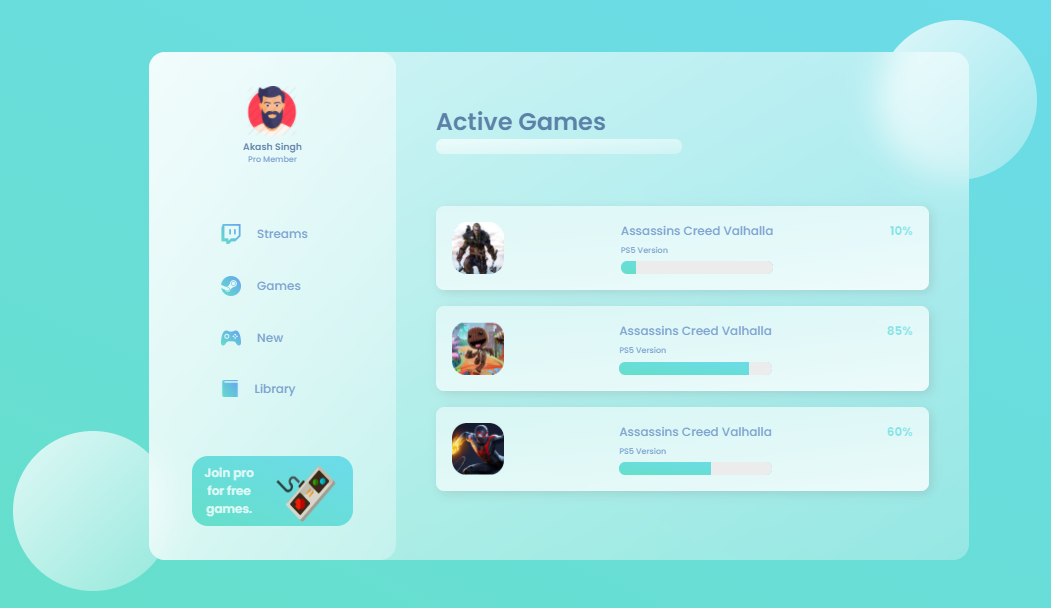
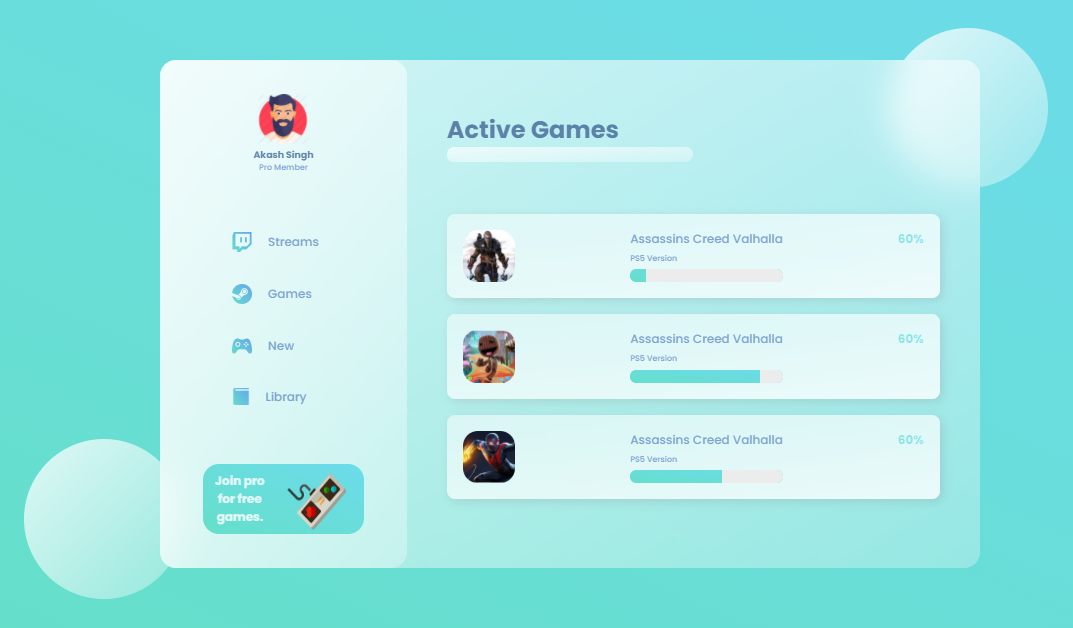
Add files via upload

diff --git a/index.html b/index.html
@@ -1,27 +1,83 @@
 <!DOCTYPE html>
 <html lang="en">
 <head>
-    <meta charset="UTF-8">
-    <meta name="viewport" content="width=device-width, initial-scale=1.0">
-    <title>CSS Basics</title>
-    <link rel="stylesheet" href="./style.css">
+  <meta charset="UTF-8">
+  <meta name="viewport" content="width=device-width, initial-scale=1.0">
+  <title>Glassmorphism Site</title>
+  <link rel="preconnect" href="https://fonts.gstatic.com" />
+  <link rel="stylesheet" href="https://fonts.googleapis.com/css2?family=Poppins:wght@400;500;700&display=swap">
+  <link rel="stylesheet" href="./style.css">
 </head>
 <body>
-    <p class="first">Mount Everest is the tallest mountain in the world.</p>
-    <p class="second">According to consensus in modern genetics, anatomically modern humans first arrived on the Indian subcontinent from Africa between 73,000 and 55,000 years ago. However, the earliest known human remains in India date to 30,000 years ago. Settled life, which involves the transition from foraging to farming and pastoralism, began in Greater India around 7,000 BCE. At the site of Mehrgarh, presence can be documented of the domestication of wheat and barley, rapidly followed by that of goats, sheep, and cattle. By 4,500 BCE, settled life had spread more widely, and began to gradually evolve into the Indus Valley Civilization, an early civilization of the Old world, which was contemporaneous with Ancient Egypt and Mesopotamia. This civilization flourished between 2,500 BCE and 1900 BCE in what today is Pakistan and north-western India and was noted for its urban planning, baked brick houses, elaborate drainage, and water supply.</p>
-
-    <h4>Favourite Sports :</h4>
-    <ul>
-        <li>Football - According to consensus in modern genetics, anatomically modern humans first arrived on the Indian subcontinent from Africa between 73,000 and 55,000 years ago. However, the earliest known human remains in India date to 30,000 years ago. Settled life, which involves the transition from foraging to farming and pastoralism, began in Greater India around 7,000 BCE. At the site of Mehrgarh, presence can be documented</li>
-        <li>Baseball - According to consensus in modern genetics, anatomically modern humans first arrived on the Indian subcontinent from Africa between 73,000 and 55,000 years ago. However, the earliest known human remains in India date to 30,000 years ago. Settled life, which involves the transition from foraging to farming and pastoralism, began in Greater India around 7,000 BCE. At the site of Mehrgarh, presence can be documented</li>
-        <li>Hockey - According to consensus in modern genetics, anatomically modern humans first arrived on the Indian subcontinent from Africa between 73,000 and 55,000 years ago. However, the earliest known human remains in India date to 30,000 years ago. Settled life, which involves the transition from foraging to farming and pastoralism, began in Greater India around 7,000 BCE. At the site of Mehrgarh, presence can be documented</li>
-    </ul>
-
-    <h4>Summer Trip:</h4>
-    <ol>
-        <li>Paris According to consensus in modern genetics, anatomically modern humans first arrived on the Indian subcontinent from Africa between 73,000 and 55,000 years ago. However, the earliest known human remains in India date to 30,000 years ago. Settled life, which involves the transition from foraging to farming and pastoralism, began in Greater India around 7,000 BCE. At the site of Mehrgarh, presence can be documented</li>
-        <li>Rome According to consensus in modern genetics, anatomically modern humans first arrived on the Indian subcontinent from Africa between 73,000 and 55,000 years ago. However, the earliest known human remains in India date to 30,000 years ago. Settled life, which involves the transition from foraging to farming and pastoralism, began in Greater India around 7,000 BCE. At the site of Mehrgarh, presence can be documented</li>
-        <li>Netherlands According to consensus in modern genetics, anatomically modern humans first arrived on the Indian subcontinent from Africa between 73,000 and 55,000 years ago. However, the earliest known human remains in India date to 30,000 years ago. Settled life, which involves the transition from foraging to farming and pastoralism, began in Greater India around 7,000 BCE. At the site of Mehrgarh, presence can be documented</li>
-    </ol>
+  <main>
+    <section class="glass">
+      <div class="dashboard">
+        <div class="user">
+          <img src="./images/avatar.png" alt="avatar" height="100">
+          <h3>Akash Singh</h3>
+          <p>Pro Member</p>
+        </div>
+        <div class="links">
+          <div class="link">
+            <img src="./images/twitch.png" alt="twitch image">
+            <h2>Streams</h2>
+          </div>
+          <div class="link">
+            <img src="./images/steam.png" alt="Games image">
+            <h2>Games</h2>
+          </div>
+          <div class="link">
+            <img src="./images/upcoming.png" alt="New image">
+            <h2>New</h2>
+          </div>
+          <div class="link">
+            <img src="./images/library.png" alt="Library image">
+            <h2>Library</h2>
+          </div>
+        </div>
+        <div class="pro">
+          <h2>Join pro for free games.</h2>
+          <img src="./images/controller.png" alt="controller">
+        </div>
+      </div>
+      <div class="games">
+        <div class="status">
+          <h1>Active Games</h1>
+          <input type="text">
+        </div>
+        <div class="cards">
+          <div class="card">
+            <img src="./images/assassins.png" alt="" />
+            <div class="card-info">
+              <h2>Assassins Creed Valhalla</h2>
+              <p>PS5 Version</p>
+              <div class="progress1"></div>
+            </div>
+            <h2 class="percentage">60%</h2>
+          </div>
+          <div class="card">
+            <img src="./images/sackboy.png" alt="" />
+            <div class="card-info">
+              <h2>Assassins Creed Valhalla</h2>
+              <p>PS5 Version</p>
+              <div class="progress2"></div>
+            </div>
+            <h2 class="percentage">60%</h2>
+          </div>
+          <div class="card">
+            <img src="./images/spiderman.png" alt="" />
+            <div class="card-info">
+              <h2>Assassins Creed Valhalla</h2>
+              <p>PS5 Version</p>
+              <div class="progress3"></div>
+            </div>
+            <h2 class="percentage">60%</h2>
+          </div>
+        </div>
+      </div>
+    </section>
+  </main>
+  <div class="circle1"></div>
+  <div class="circle2"></div>
 </body>
 </html>
